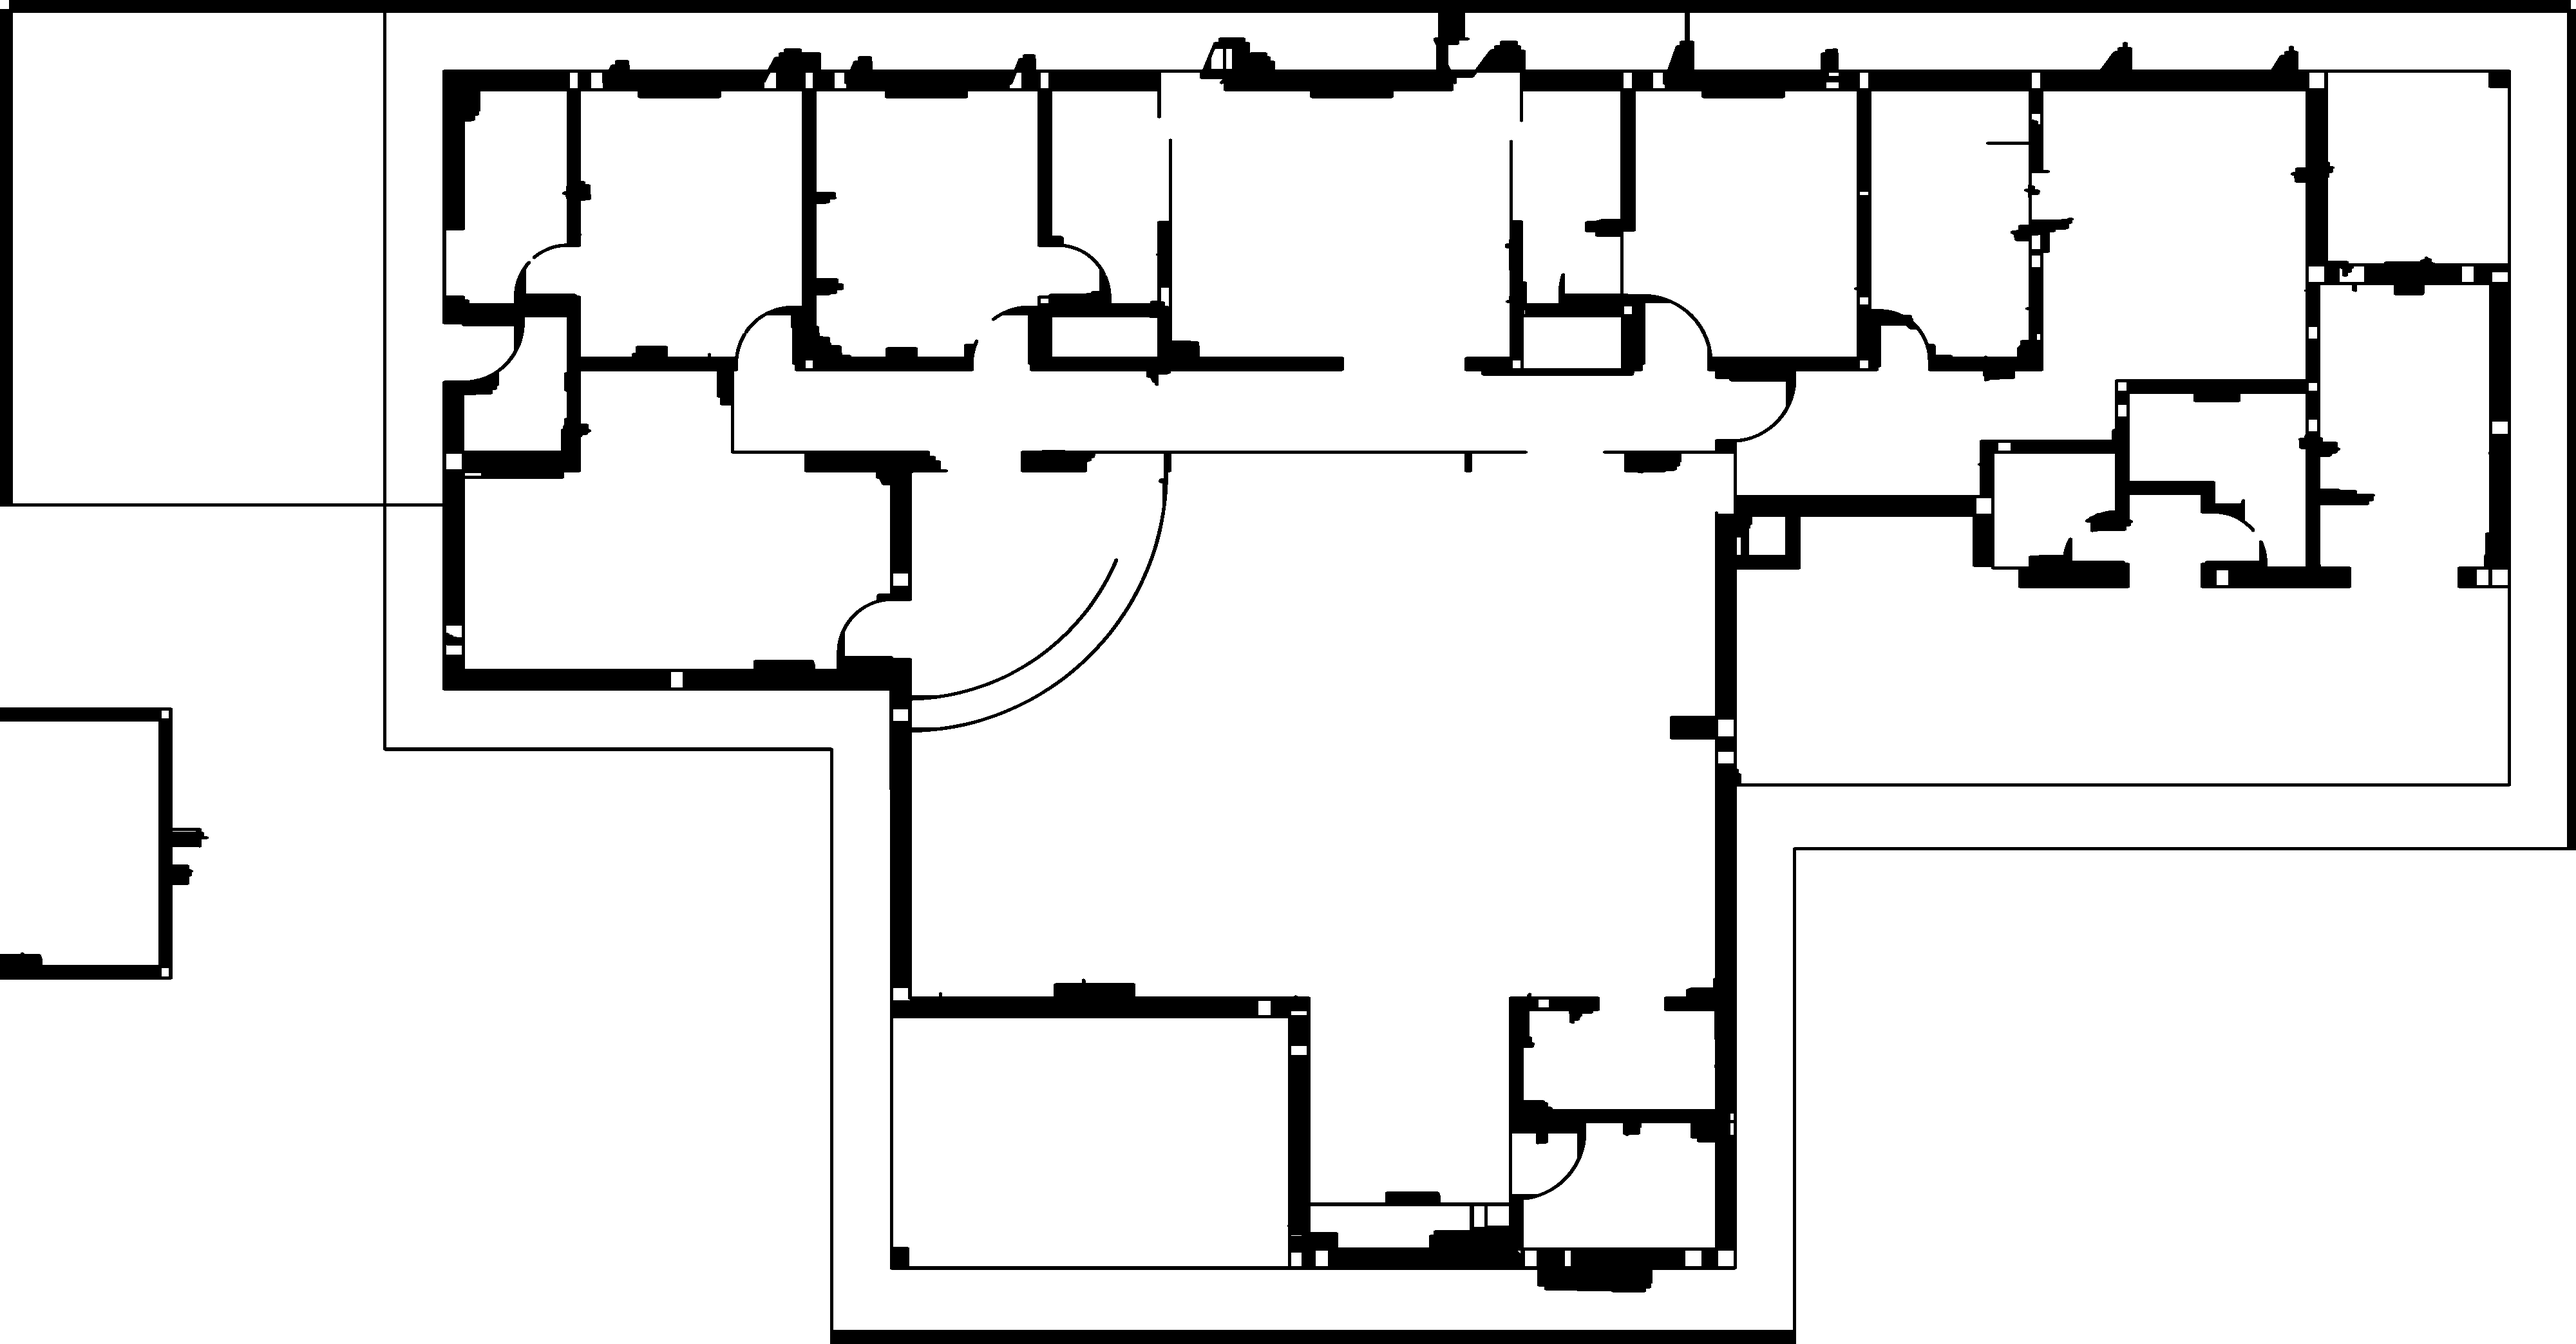
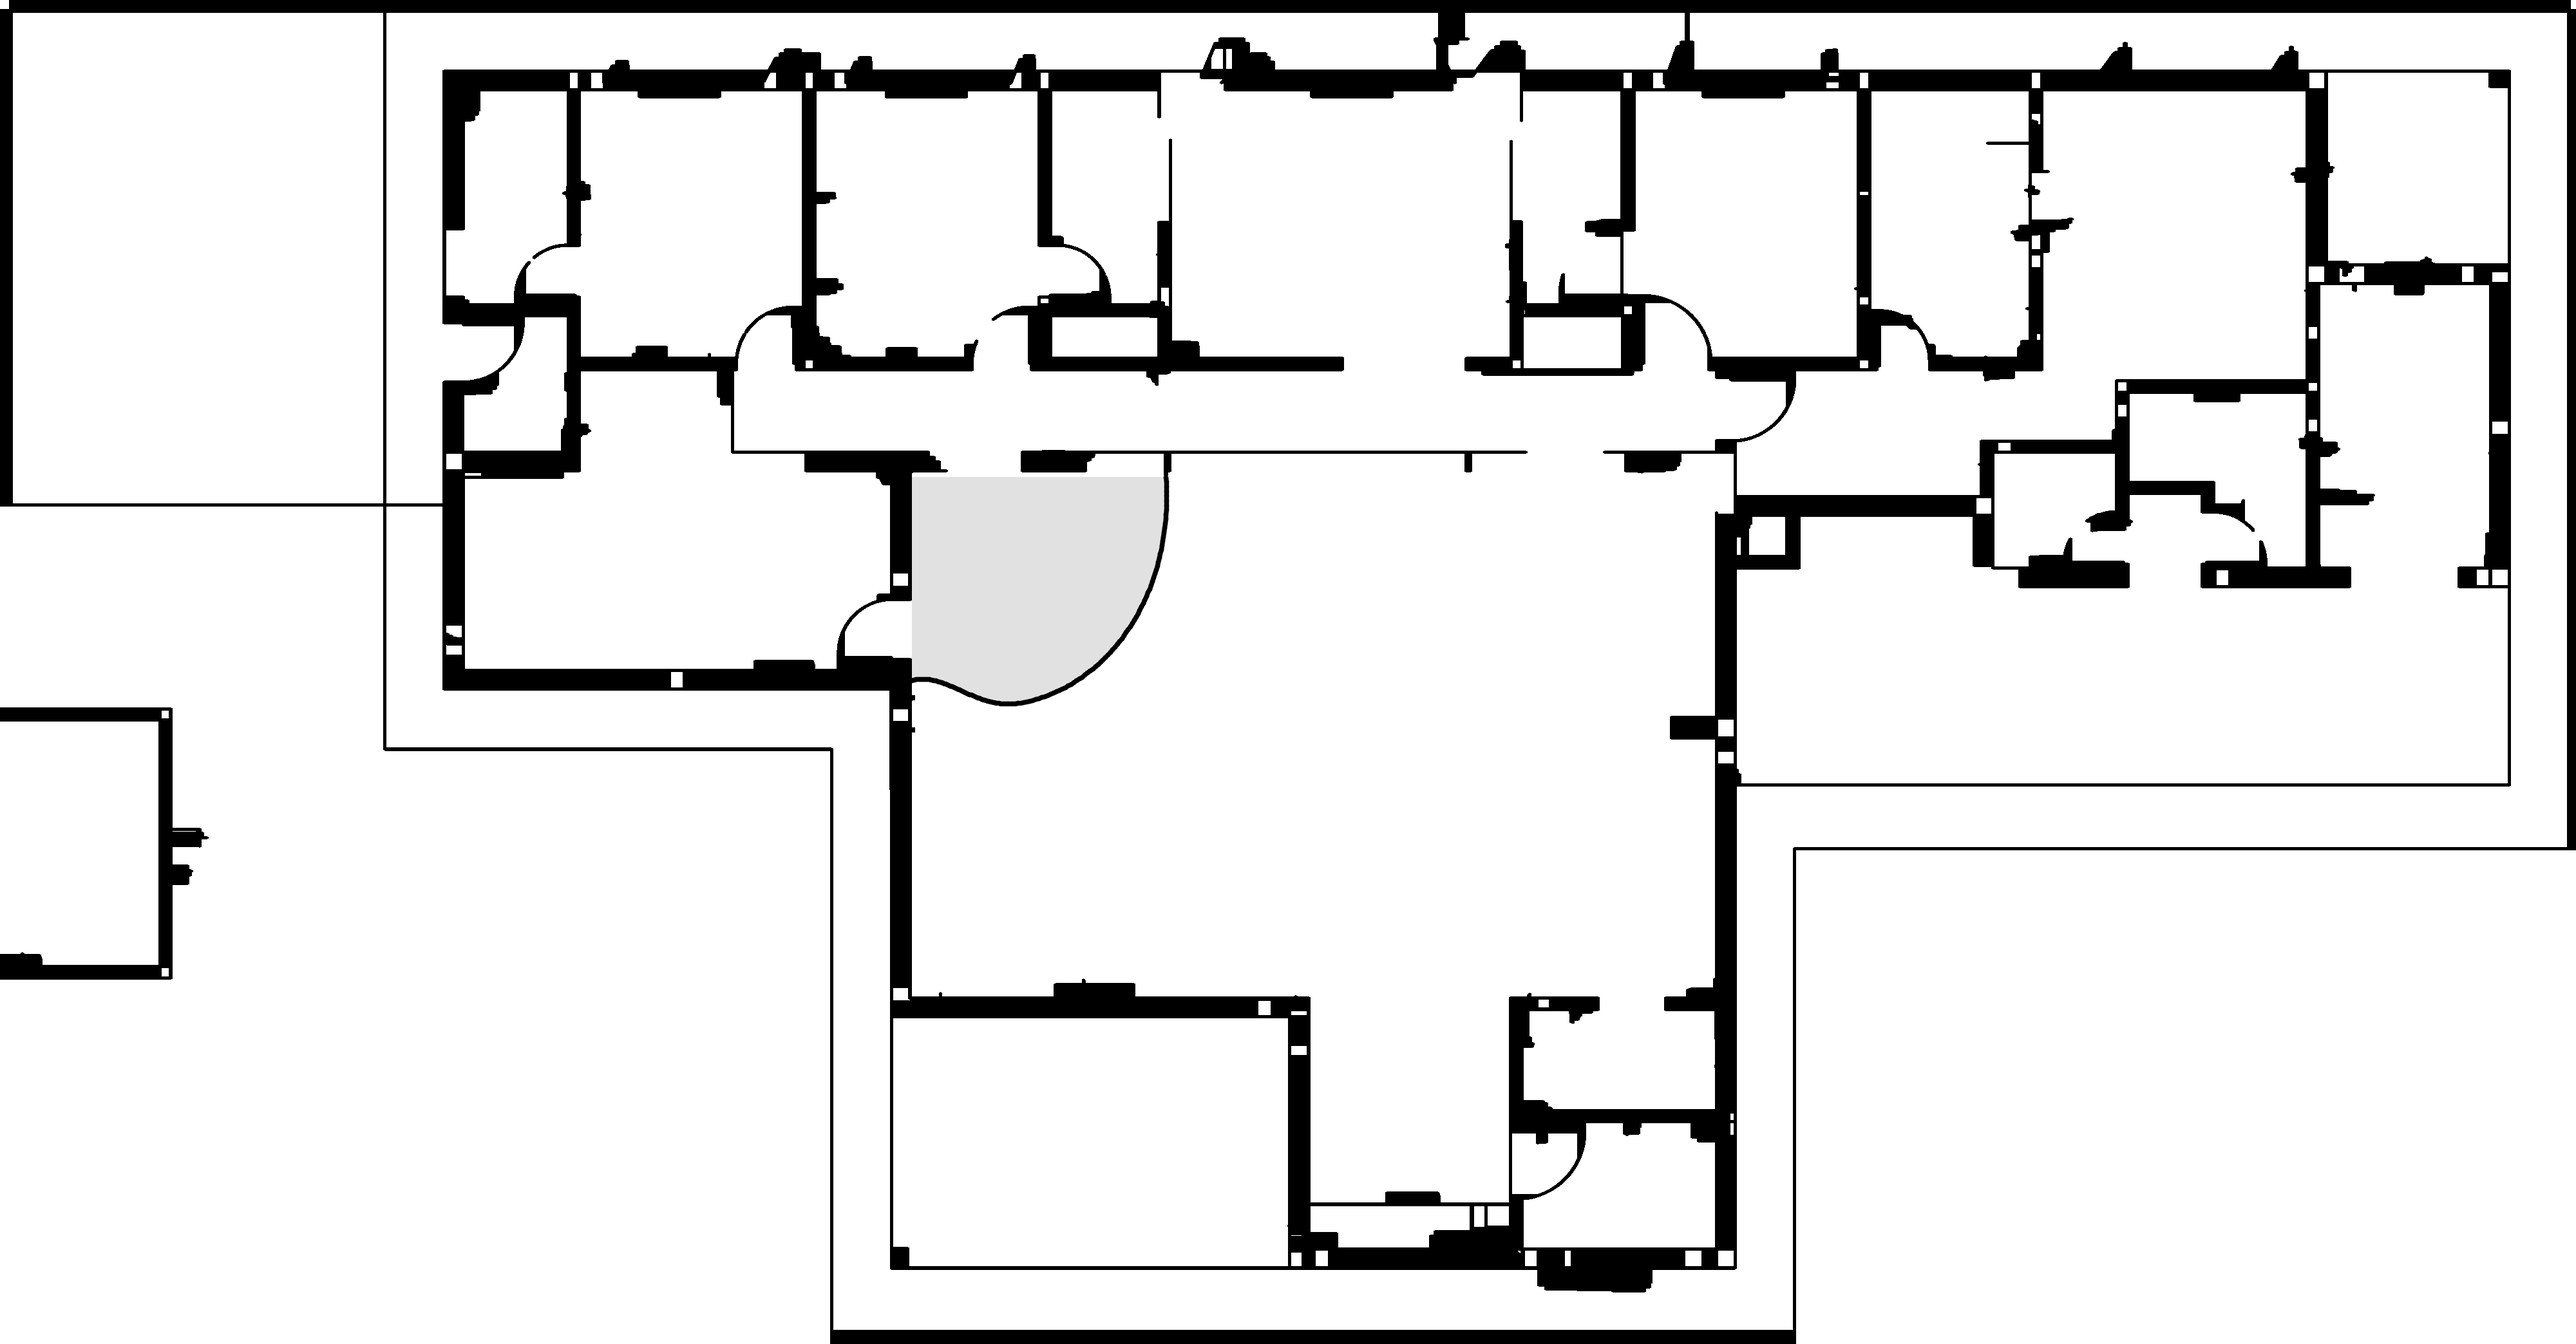
Black outline default with hidden electrical slider; piano-shaped palco
Claude-Session: https://claude.ai/code/session_0135ByMvkYzWiKpt7nDS3rso

Changed region(s): [[0.3438, 0.3424, 0.4688, 0.5292]]

diff --git a/index.html b/index.html
@@ -35,10 +35,10 @@ textarea{width:100%;font:14px system-ui;margin-top:6px;flex:none;height:56px;use
 
 #out{display:none;width:100%;user-select:text;-webkit-user-select:text}
 .m{cursor:pointer}.m text{font-weight:700;pointer-events:none}
-</style></head><body>
+#slw{position:absolute;left:6px;bottom:6px;z-index:5;display:flex;gap:6px;align-items:center}#slb{width:30px;height:30px;padding:0;opacity:.45;border-radius:15px}#sl{display:none;width:140px}#slw.open #sl{display:block}#slw.open #slb{opacity:.9}</style></head><body>
 <div id="app">
 <div id="chips"></div>
-<div id="big"><img></div><div id="main"><div id="stage"><iframe id="pal" src="palco/view.html" style="display:none;position:absolute;inset:0;width:100%;height:100%;border:0;background:#fff;z-index:2"></iframe><svg id="s"><g id="vp"><image href="walls.png" width="3200" height="1670"/><image id="el" href="elec.png" width="3200" height="1670"/><g id="mk"></g></g></svg></div>
+<div id="big"><img></div><div id="main"><div id="stage"><div id="slw"><button id="slb">◐</button><input type="range" id="sl" min="0" max="100" value="0"></div><iframe id="pal" src="palco/view.html" style="display:none;position:absolute;inset:0;width:100%;height:100%;border:0;background:#fff;z-index:2"></iframe><svg id="s"><g id="vp"><image id="el" href="elec.jpg" width="3200" height="1670" opacity="0"/><image id="wl" href="walls.png" width="3200" height="1670"/><g id="mk"></g></g></svg></div>
 <div id="panel"><div class="in" id="pin"></div></div></div>
 </div>
 <script>
@@ -97,7 +97,7 @@ $("big").onclick=()=>$("big").style.display="none";
 // gestures
 const P=new Map();let gs=null,tapT=0;
 function sp(e){const r=stage.getBoundingClientRect();if(document.body.classList.contains("rot"))return{x:e.clientY-r.top,y:r.right-e.clientX};return{x:e.clientX-r.left,y:e.clientY-r.top}}
-stage.addEventListener("pointerdown",e=>{if(e.target.closest("#zb"))return;stage.setPointerCapture(e.pointerId);P.set(e.pointerId,{...sp(e),sx:e.clientX,sy:e.clientY,t:e.target.closest(".m")});cancelAnimationFrame(anim);
+stage.addEventListener("pointerdown",e=>{if(e.target.closest("#zb,#slw"))return;stage.setPointerCapture(e.pointerId);P.set(e.pointerId,{...sp(e),sx:e.clientX,sy:e.clientY,t:e.target.closest(".m")});cancelAnimationFrame(anim);
  if(P.size==2){const [a,b]=[...P.values()];gs={d:Math.hypot(a.x-b.x,a.y-b.y),k:V.k,cx:(a.x+b.x)/2,cy:(a.y+b.y)/2,tx:V.tx,ty:V.ty,pinch:1}}
  else{const p=P.get(e.pointerId);gs={tx:V.tx,ty:V.ty,x:p.x,y:p.y,drag:p.t&&p.t.dataset.id==moveId?M.find(o=>o.id==p.t.dataset.id):null,moved:0}}});
 stage.addEventListener("pointermove",e=>{const p=P.get(e.pointerId);if(!p)return;const c=sp(e);p.x=c.x;p.y=c.y;
@@ -116,4 +116,6 @@ function addPoint(){const r=S();const n=Math.max(0,...M.map(o=>o.n))+1;const o={
 function ori(){document.body.classList.toggle("rot",innerHeight>innerWidth);setTimeout(()=>{fit()},80)}
 addEventListener("resize",ori);ori();
 drawAll();setTimeout(fit,50);
+$("slb").onclick=()=>$("slw").classList.toggle("open");
+$("sl").oninput=e=>{const t=e.target.value/100;$("el").setAttribute("opacity",t);$("wl").setAttribute("opacity",1-.85*t)};
 </script></body></html>
